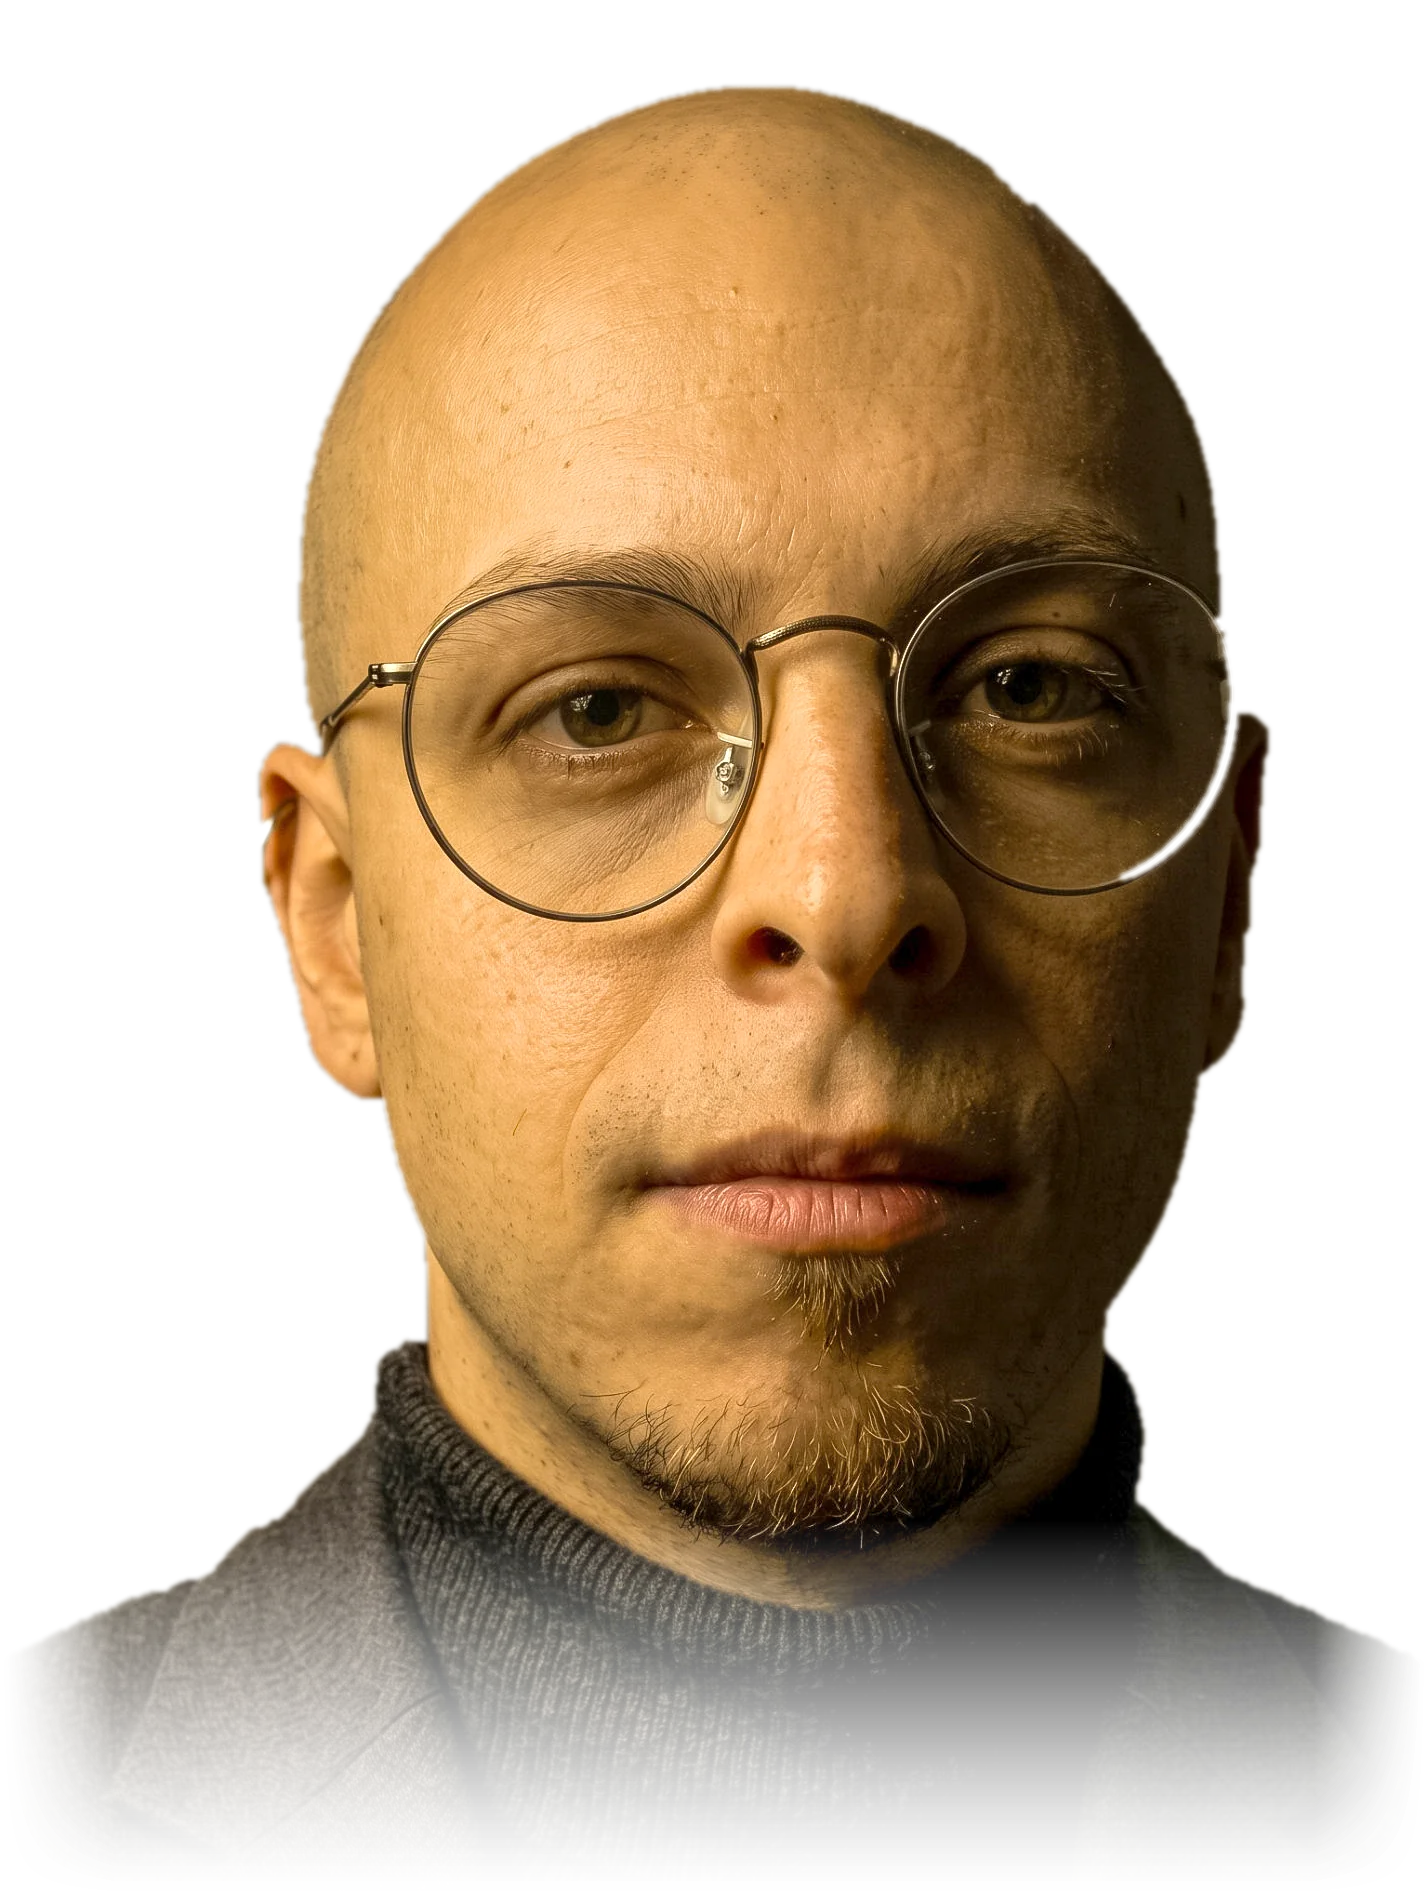
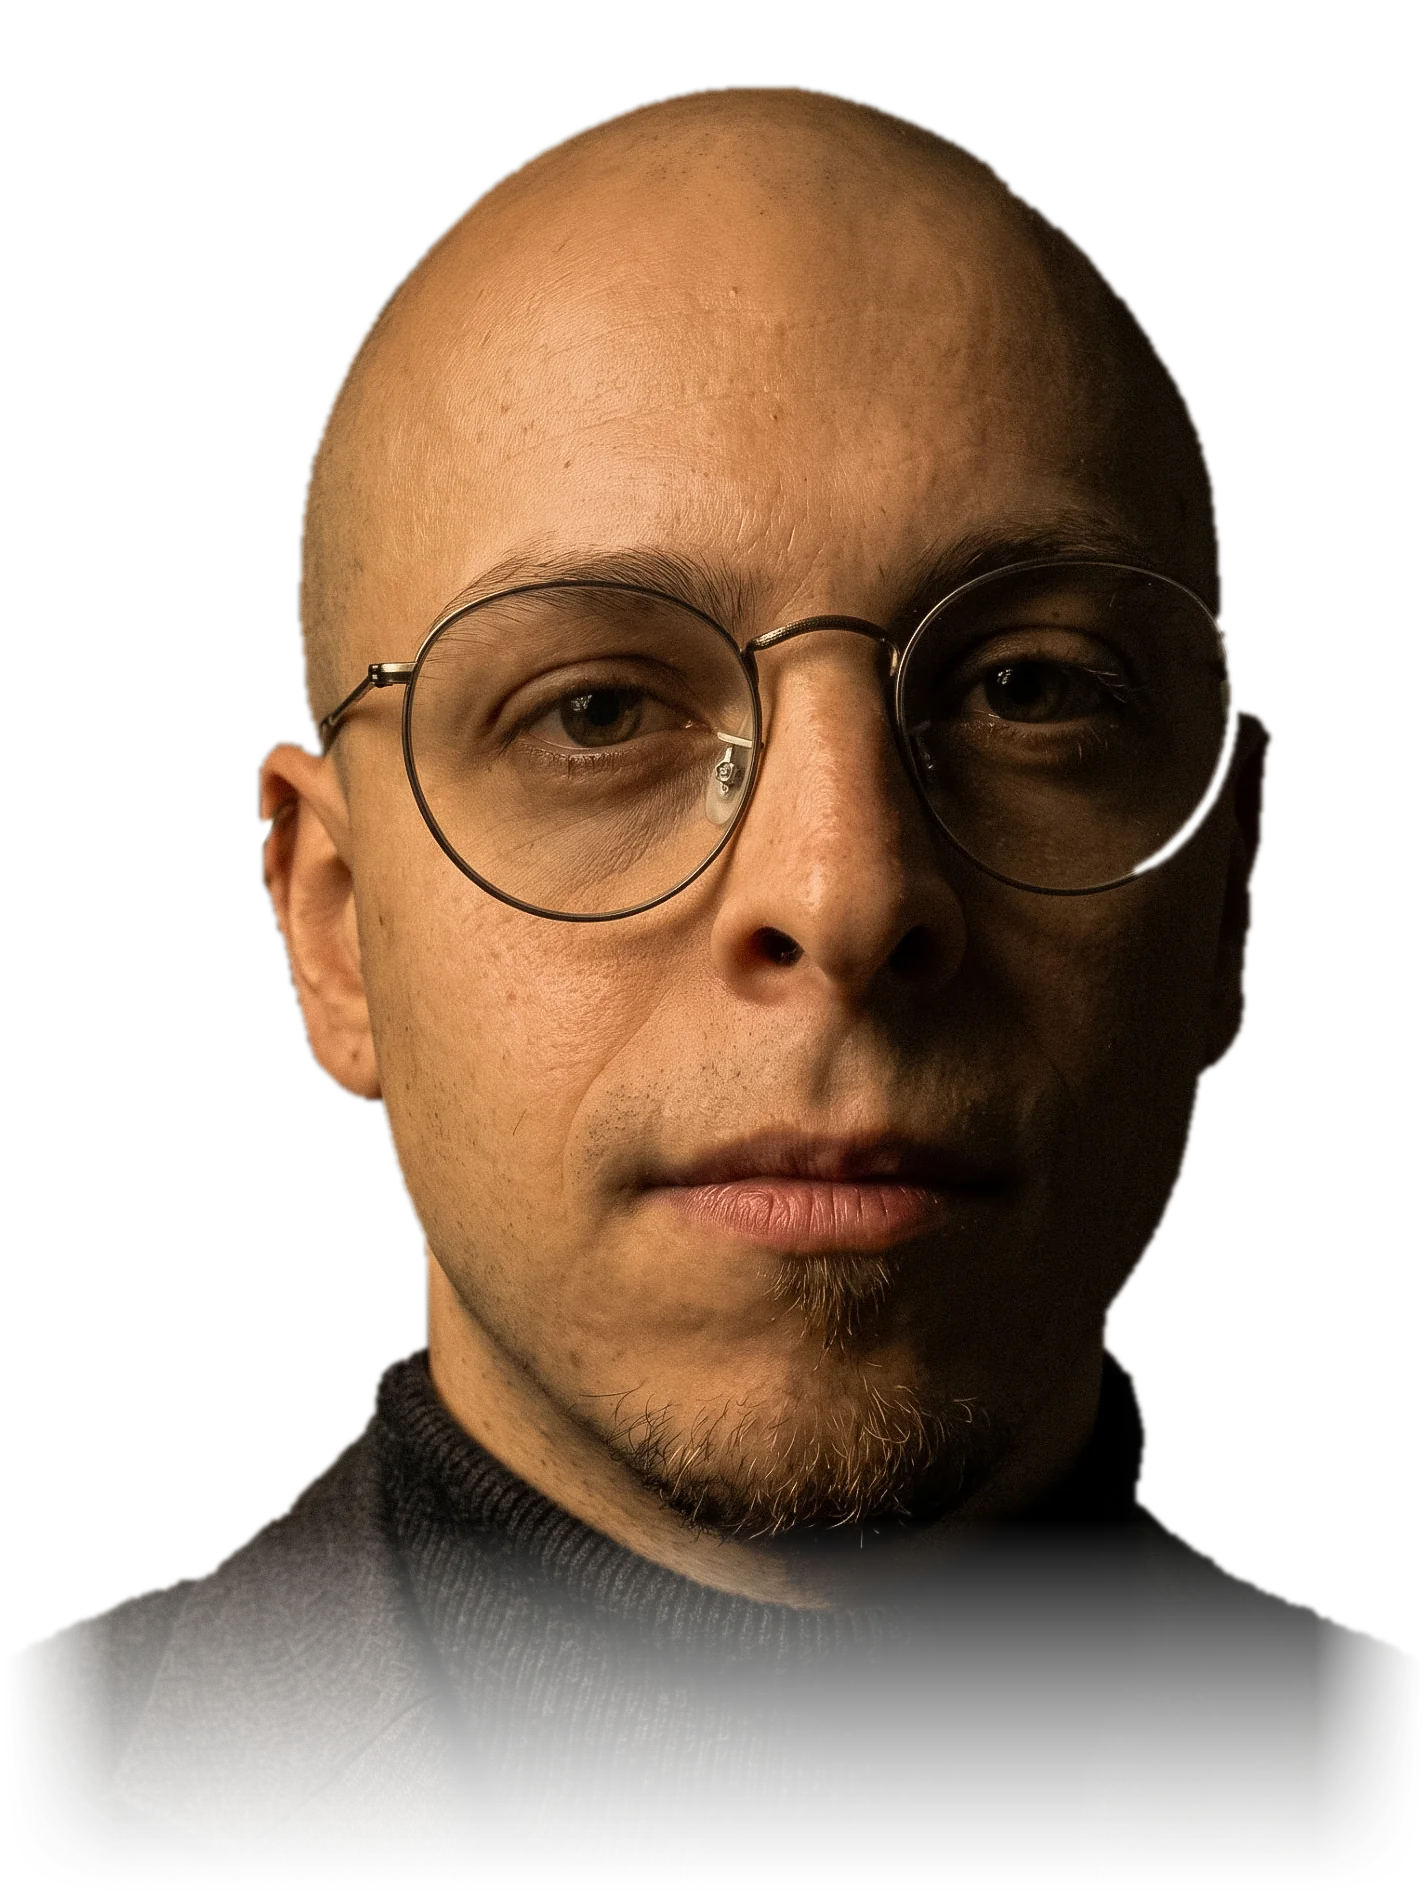
Foto aggiornata (versione più chiara fornita da Nicolò), scontornata, in tutto il sito
Claude-Session: https://claude.ai/code/session_013V1PHsXmyXHJ8mUMRufPdc

diff --git a/index.html b/index.html
@@ -87,7 +87,7 @@
 
 <div class="editorial-shell"><main class="editorial-content">
 <section class="m-entry" aria-label="Ingresso" data-i18n-aria="entry_label">
-  <img class="m-entry-photo" src="photo-entry-mobile.webp?v=5" alt="" width="1428" height="2560" fetchpriority="high">
+  <img class="m-entry-photo" src="photo-entry-mobile.webp?v=6" alt="" width="1428" height="2560" fetchpriority="high">
   <a class="m-entry-link" href="#profilo"><span class="m-entry-name" aria-hidden="true">Nicolò Forcolin</span><span class="visually-hidden" data-i18n="scroll_btn">Entra nel sito</span><span class="entry-mark" aria-hidden="true"><span class="entry-line"></span><span class="entry-dot"></span></span></a>
 </section>
 <section class="hero" id="profilo" aria-labelledby="hero-name">
@@ -98,7 +98,7 @@
 
     </div>
     <div class="hero-photo-frame">
-      <img class="hero-portrait" id="avatarPhoto" src="photo.webp?v=38" alt="Nicolò Forcolin" width="1428" height="1900" fetchpriority="high">
+      <img class="hero-portrait" id="avatarPhoto" src="photo.webp?v=39" alt="Nicolò Forcolin" width="1428" height="1900" fetchpriority="high">
     </div>
   </div>
 </section>

diff --git a/tests/site-regression.test.js b/tests/site-regression.test.js
@@ -70,8 +70,8 @@ assert(home.includes('id="heroIntro"'), 'Hero intro paragraph missing');
 for (const language of ['it', 'en']) assert(dictionaries[language].includes('hero_intro:'), language + ': hero intro missing');
 assert(home.includes('data-i18n="skip_to_content"'), 'Skip link must be translated');
 assert(!home.includes('hero-cta-row'), 'The redundant hero links were removed');
-assert(home.includes('src="photo.webp?v=38"'), 'New portrait must be displayed');
-assert(home.includes('src="photo-entry-mobile.webp?v=5"') && fs.existsSync(path.join(root, 'photo-entry-mobile.webp')), 'The mobile entry screen uses the mobile portrait');
+assert(home.includes('src="photo.webp?v=39"'), 'New portrait must be displayed');
+assert(home.includes('src="photo-entry-mobile.webp?v=6"') && fs.existsSync(path.join(root, 'photo-entry-mobile.webp')), 'The mobile entry screen uses the mobile portrait');
 assert(!home.includes('class="info-dialog"'), 'Project dialogs were replaced by pages');
 
 assert(read('rag-aziendale.html').includes('data-i18n="c1_summary"'), 'RAG summary must remain');
